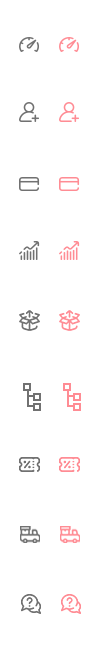
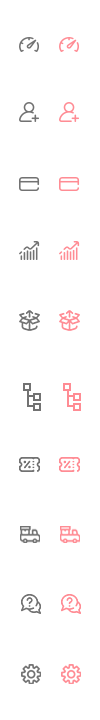
settingIcon

diff --git a/src/index.scss b/src/index.scss
@@ -84,9 +84,9 @@ body{
 }
 .sideBarmenu{
   min-width: 252px;
-  max-width: 202x;
-    background: $white;
-    transition: all 0.3s;
+  max-width: 202px;
+  background: $white;
+  transition: all 0.3s;
 }
 
 // .main-container{
@@ -103,14 +103,13 @@ body{
     padding: 18px 18px 0 18px;
     transition: all 0.3s;
 
-    // -webkit-transition: all 0.5s ease;
-    // -moz-transition: all 0.5s ease;
-    // transition: all 0.5s ease;
-    // width: calc(100vw - 50px);
-    // padding: 18px 18px 0 18px;
-    // position: relative;
-    // z-index: 0;
-    // margin: 0 auto;
+  //   -webkit-transition: all 0.5s ease;
+  //   -moz-transition: all 0.5s ease;
+  //   transition: all 0.5s ease;
+  //  // width: calc(100vw - 50px);
+  //   position: relative;
+  //   z-index: 0;
+  //   margin: 0 auto;
     
 }
 
@@ -476,6 +475,8 @@ li:hover .menu-link{
 .report_manag i{ background-position: -19px -230px;}
 .faq i{ background-position: -19px -584px;}
 .static i{ background-position: -19px -92px;}
+.set i{ background-position: -19px -654px;}
+
 li:hover .menu-list i{
   background-position-x: -59px;
 }
@@ -483,10 +484,12 @@ li .activate .menu-list i{
   background-position-x: -59px!important;
 }
 }
-.sidebar-toggle{
-  width: calc(100vw - 1123px);
-  margin-top: 25px;
-}
+
+
+// .sidebar-toggle{
+//   //width: calc(100vw - 1123px);
+//   margin-top: 25px;
+// }
 
 // .menu-btn{
 //   background: none;
@@ -2591,7 +2594,7 @@ display: flex;
   }
 }
 .sidebar-toggle{
-  width: calc(100vw - 1000px);
+ // width: calc(100vw - 1000px);
 }
 
 }

diff --git a/src/shared/Sidebar.jsx b/src/shared/Sidebar.jsx
@@ -3,7 +3,10 @@ import { labelResources, path } from '../constants';
 
 let Label = labelResources.Sidebar;
 
+
+
 export const Sidebar = [
+
     {
         name: (
             <span className="menu-list dashboard">
@@ -220,15 +223,23 @@ export const Sidebar = [
         ),
         path: path.faq.list,
     },
+
     {
         name: (
-            <span className="menu-list faq">
+            <span className="menu-list set">
                 <i />
                 {Label.Setting}
             </span>
         ),
-        path: path.appSetting.add,
+        logo: (
+            <span className="menu-list set">
+                <i />
+                {/* {Label.Setting} */}
+            </span>
+        ),
+        path: path.faq.list,
     },
+
     // {
     //     name: (
     //         <span className="menu-list static">
